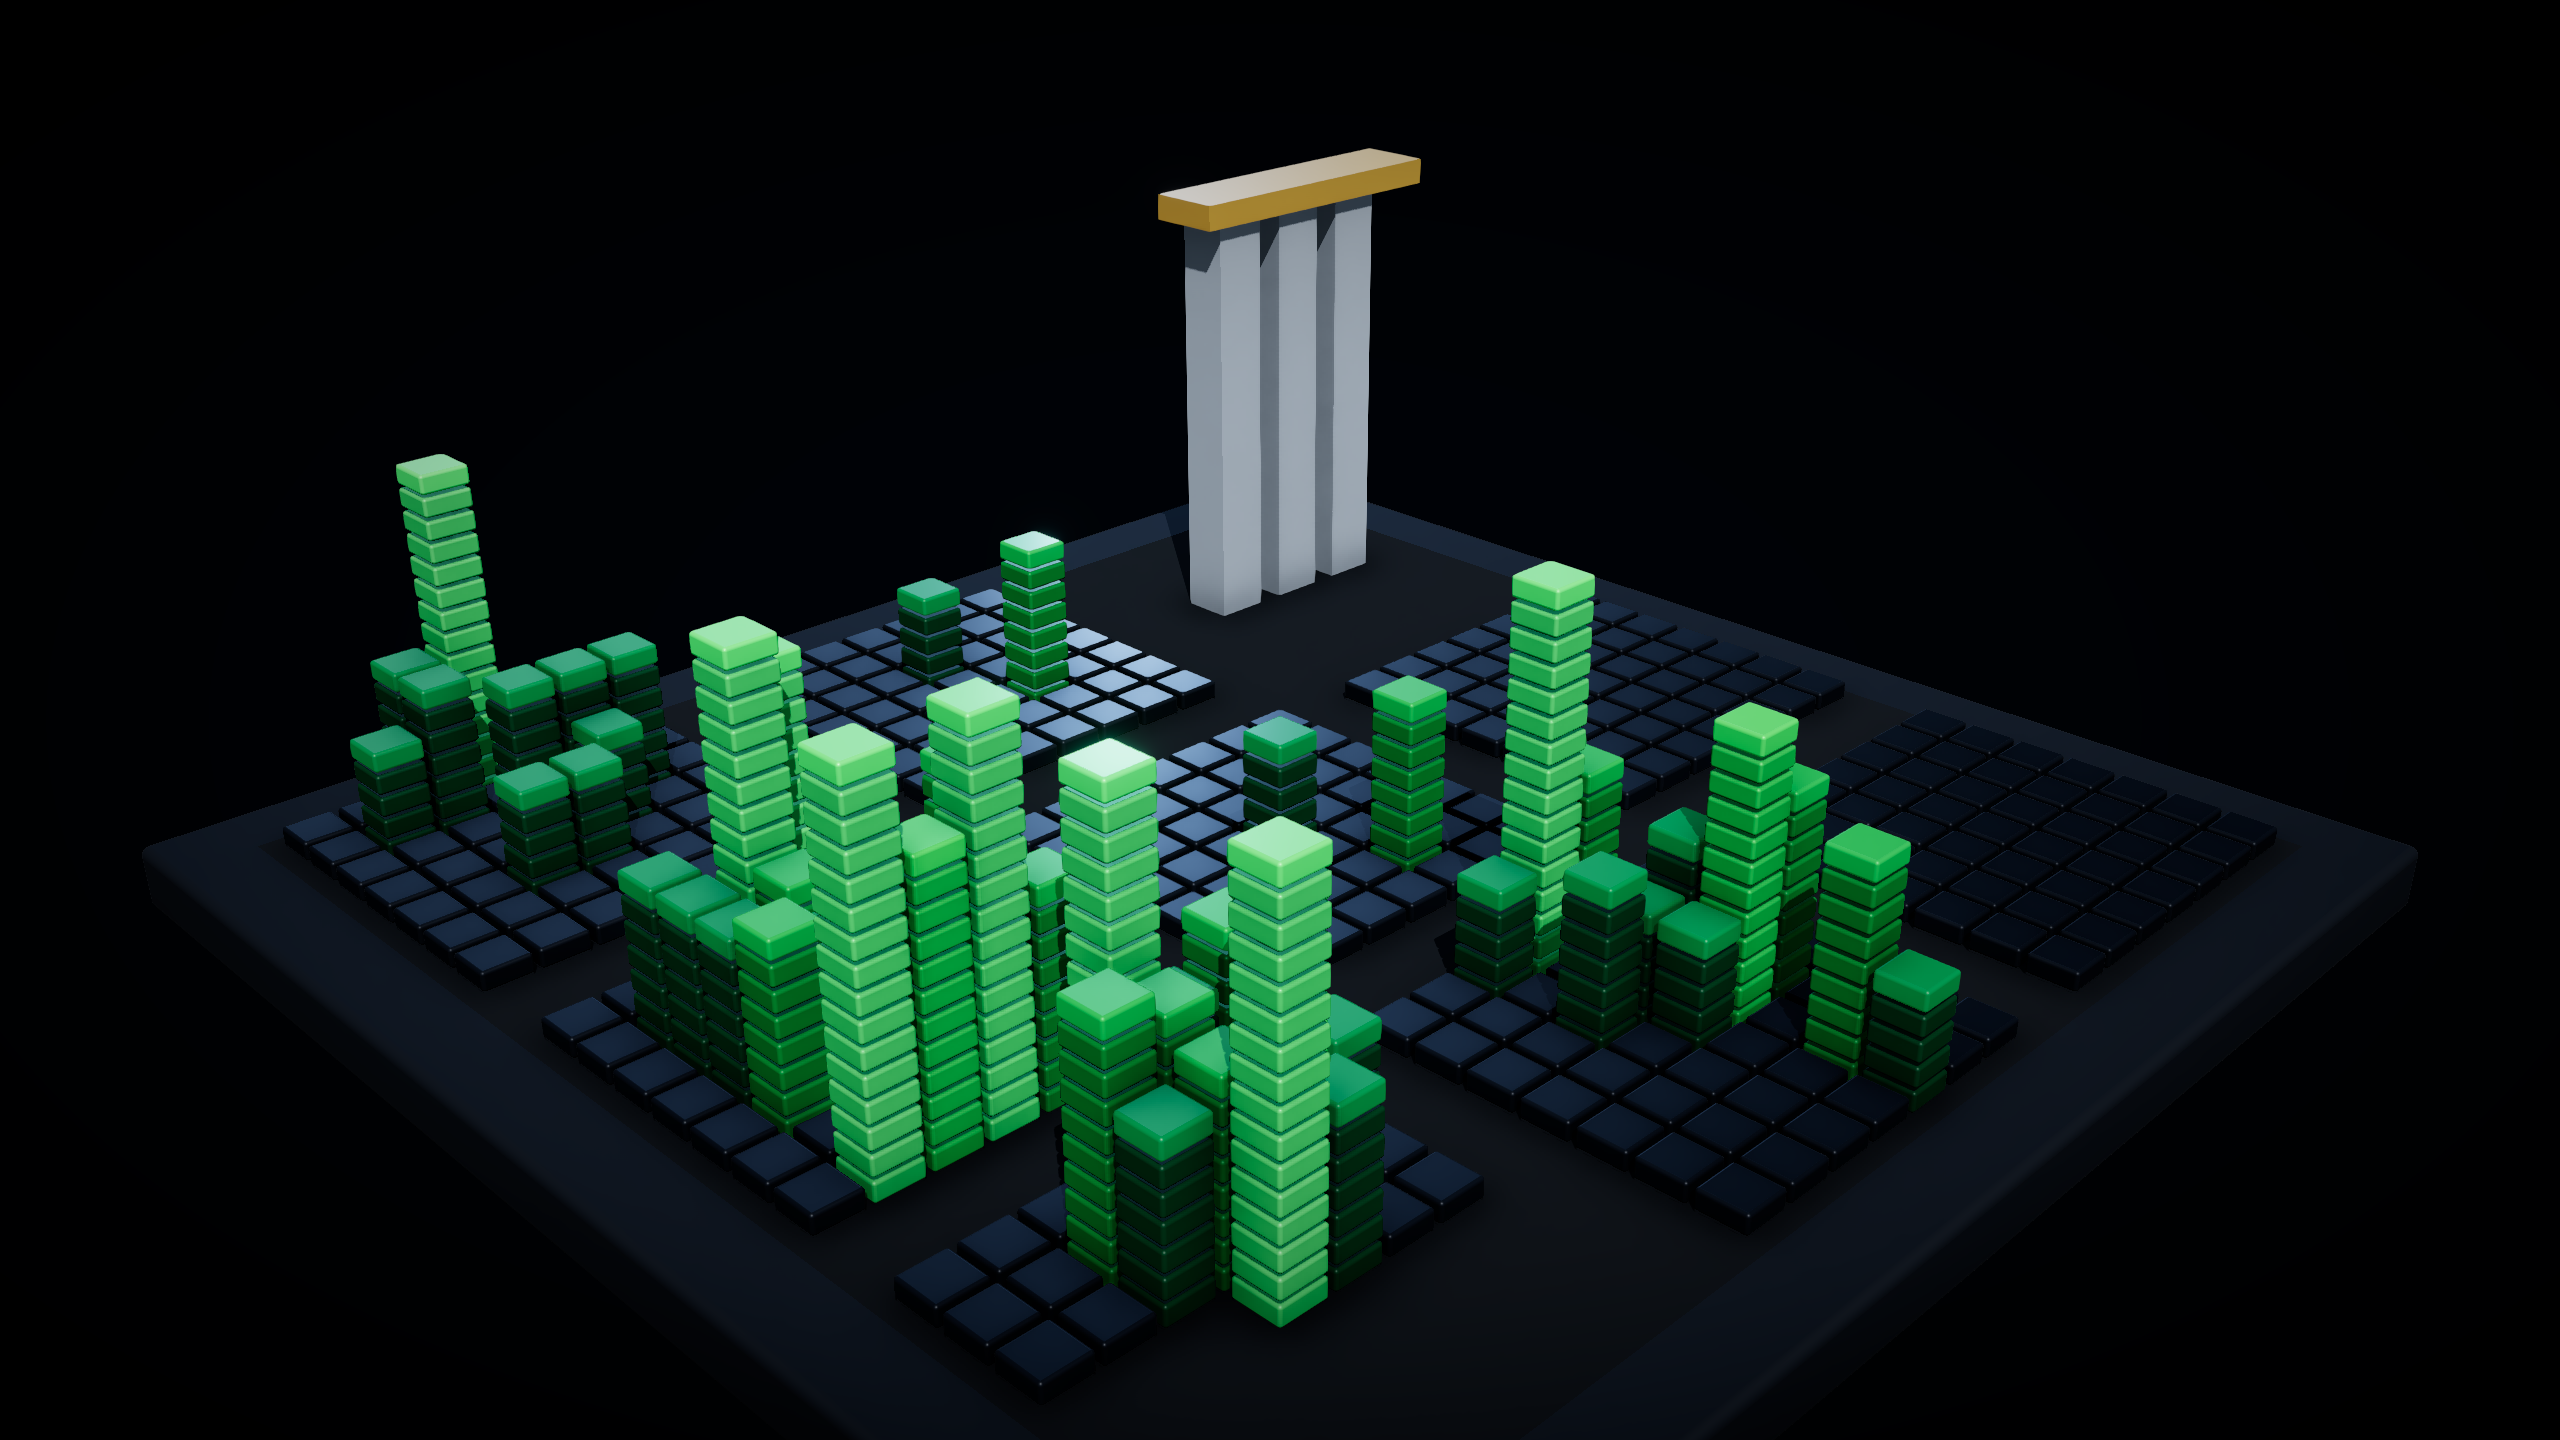
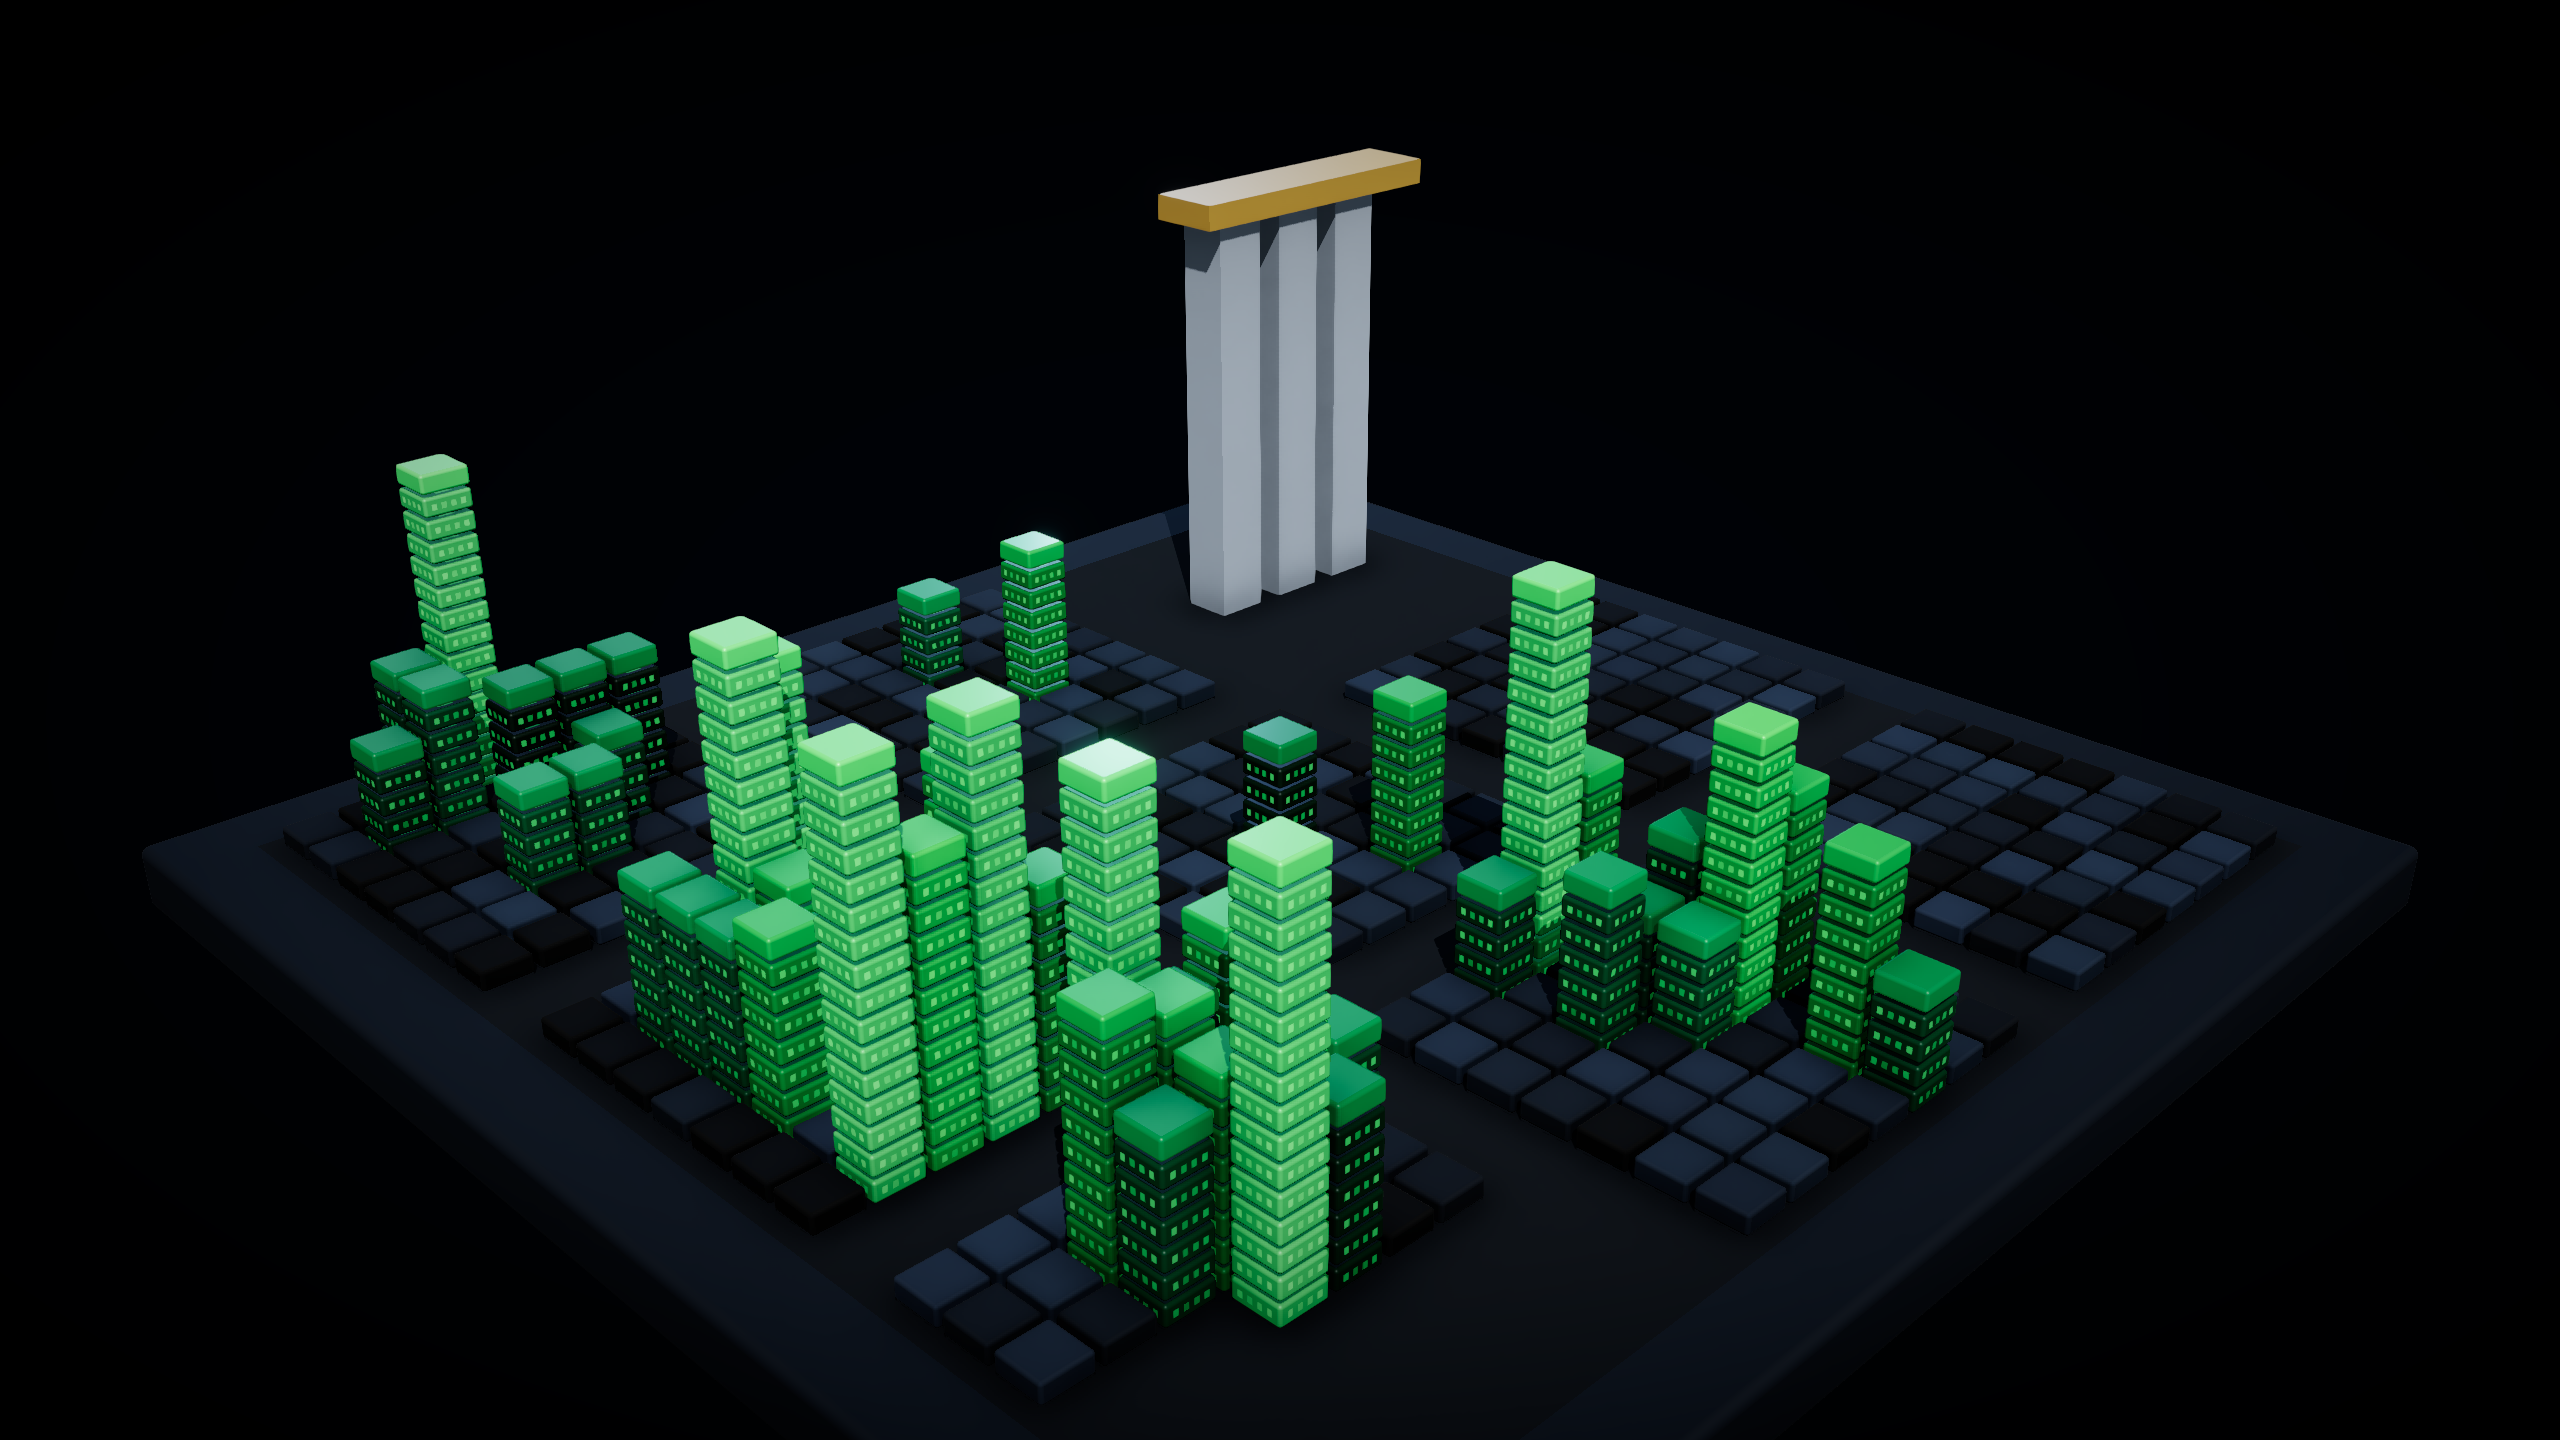
Add lit window facades and per-building colour jitter
Blank tower walls were the biggest remaining gap against the reference.

- windowTexture.ts generates a one-storey row of lit windows on a canvas, used
  as an emissiveMap so only the windows glow while the wall colour still comes
  from the per-instance colour. Stacked cubes tile it into a continuous facade.
- Split into three instance groups so the map lands only where it should:
  walls get windows, rooftops stay smooth, zero-day low-rise stays unlit. Body
  cubes always have a neighbour above and below, so their window map is only
  ever seen on the four walls.
- Deterministic hash-based colour jitter per cell so neighbouring towers aren't
  identical prisms. Hash rather than Math.random keeps the render
  byte-reproducible, which is what lets CI skip no-op screenshot commits.

diff --git a/src/scene/DataBuildings.tsx b/src/scene/DataBuildings.tsx
@@ -15,6 +15,7 @@ import {
   heightScaleRef,
   voxelCount,
 } from "../utils/grid"
+import { makeWindowTexture } from "./windowTexture"
 
 interface Voxel {
   key: string
@@ -28,61 +29,85 @@ const BODY_H = VOXEL_H * VOXEL_FILL
 const BEVEL = 0.055
 
 const bodyGeometry = new RoundedBoxGeometry(CELL_SIZE, BODY_H, CELL_SIZE, 2, BEVEL)
+const windowMap = makeWindowTexture()
 
-/** Rooftops catch the light, so the top cube of each stack is brightened.
- *  Lifts HSL lightness rather than lerping toward white, which would wash the
- *  greens out to sage-grey. */
-function brighten(hex: string, amount: number): string {
+function shiftLightness(hex: string, amount: number, satMul = 1): string {
   const c = new Color(hex)
   const hsl = { h: 0, s: 0, l: 0 }
   c.getHSL(hsl)
-  c.setHSL(hsl.h, Math.min(1, hsl.s * 1.15), Math.min(1, hsl.l + amount))
+  c.setHSL(hsl.h, Math.min(1, hsl.s * satMul), Math.max(0, Math.min(1, hsl.l + amount)))
   return `#${c.getHexString()}`
 }
 
+/** Deterministic per-cell jitter so neighbouring towers aren't identical
+ *  prisms. Hash-based rather than Math.random so the render stays
+ *  byte-reproducible across CI runs. */
+function jitter(week: number, row: number): number {
+  const h = Math.sin(week * 127.1 + row * 311.7) * 43758.5453
+  return (h - Math.floor(h) - 0.5) * 2 // -1..1
+}
+
 export function DataBuildings({ data, palette }: { data: ContributionData; palette: Palette }) {
-  const { bodies, caps } = useMemo(() => {
+  const { bodies, caps, lowrise } = useMemo(() => {
     const counts = data.weeks.flatMap((w) => w.days.map((d) => d.count))
     const scaleRef = heightScaleRef(counts)
 
     const bodies: Voxel[] = []
     const caps: Voxel[] = []
+    const lowrise: Voxel[] = []
 
     data.weeks.forEach((week, weekIndex) => {
       week.days.forEach((day, row) => {
         if (row >= BLOCK_ROWS) return
         const { x, z } = cellPosition(weekIndex, row)
         const base = palette.levels[bucket(day.count, scaleRef)]
+        const tint = shiftLightness(base, jitter(weekIndex, row) * 0.035)
         const stack = voxelCount(day.count, scaleRef)
+
+        if (day.count <= 0) {
+          // Unlit low-rise: no windows, no roof glow. Keeps quiet days quiet
+          // while still giving the city continuous built texture.
+          lowrise.push({ key: `${weekIndex}-${row}-l`, position: [x, VOXEL_H / 2, z], color: tint })
+          return
+        }
 
         for (let i = 0; i < stack; i++) {
           const v: Voxel = {
             key: `${weekIndex}-${row}-${i}`,
             position: [x, i * VOXEL_H + VOXEL_H / 2, z],
-            color: base,
+            color: tint,
           }
-          // Quiet days stay unlit low-rise; only real activity gets a lit roof.
-          if (i === stack - 1 && day.count > 0) caps.push({ ...v, color: brighten(base, 0.06) })
+          // Only the topmost cube shows a roof; every cube below it has its top
+          // and bottom faces hidden by neighbours, so the window map on those
+          // is only ever seen on the four walls.
+          if (i === stack - 1) caps.push({ ...v, color: shiftLightness(tint, 0.06, 1.15) })
           else bodies.push(v)
         }
       })
     })
-    return { bodies, caps }
+    return { bodies, caps, lowrise }
   }, [data, palette])
 
   const limit = 53 * BLOCK_ROWS * MAX_VOXELS
 
   return (
     <group>
-      {/* Tower bodies */}
+      {/* Tower walls, with lit windows via an emissive map. */}
       <Instances limit={limit} geometry={bodyGeometry} castShadow receiveShadow>
-        <meshStandardMaterial roughness={0.28} metalness={0.22} envMapIntensity={0.9} />
+        <meshStandardMaterial
+          roughness={0.3}
+          metalness={0.2}
+          envMapIntensity={0.9}
+          emissive={palette.glow}
+          emissiveMap={windowMap}
+          emissiveIntensity={0.85}
+        />
         {bodies.map((v) => (
           <Instance key={v.key} position={v.position} color={v.color} />
         ))}
       </Instances>
 
-      {/* Rooftops -- gently emissive so bloom picks them out as city lights. */}
+      {/* Rooftops -- smooth, gently emissive so bloom reads them as city lights. */}
       <Instances limit={limit} geometry={bodyGeometry} castShadow receiveShadow>
         <meshStandardMaterial
           roughness={0.22}
@@ -92,6 +117,14 @@ export function DataBuildings({ data, palette }: { data: ContributionData; palet
           emissiveIntensity={0.11}
         />
         {caps.map((v) => (
+          <Instance key={v.key} position={v.position} color={v.color} />
+        ))}
+      </Instances>
+
+      {/* Zero-contribution days: one dark unlit block. */}
+      <Instances limit={53 * BLOCK_ROWS} geometry={bodyGeometry} castShadow receiveShadow>
+        <meshStandardMaterial roughness={0.75} metalness={0.1} envMapIntensity={0.5} />
+        {lowrise.map((v) => (
           <Instance key={v.key} position={v.position} color={v.color} />
         ))}
       </Instances>

diff --git a/src/scene/windowTexture.ts b/src/scene/windowTexture.ts
@@ -1,0 +1,54 @@
+import { CanvasTexture, LinearFilter, RepeatWrapping } from "three"
+
+/** One stacked cube is one storey, so the texture holds a single row of lit
+ *  windows. Stacking cubes then tiles it vertically into a continuous facade.
+ *
+ *  Used as an emissiveMap: black emits nothing, bright pixels glow. That way
+ *  only the windows light up, and the wall colour still comes from the
+ *  per-instance colour. */
+export function makeWindowTexture(): CanvasTexture {
+  const W = 128
+  const H = 128
+  const canvas = document.createElement("canvas")
+  canvas.width = W
+  canvas.height = H
+  const ctx = canvas.getContext("2d")!
+
+  ctx.fillStyle = "#000000"
+  ctx.fillRect(0, 0, W, H)
+
+  const cols = 4
+  const marginX = W * 0.14
+  const usableW = W - marginX * 2
+  const winW = (usableW / cols) * 0.62
+  const gapX = (usableW - winW * cols) / (cols - 1)
+  const winH = H * 0.34
+  const y = (H - winH) / 2
+
+  // Deterministic pseudo-random so the texture is identical every build --
+  // the whole render needs to stay byte-reproducible for CI to skip no-op
+  // commits.
+  let seed = 1337
+  const rand = () => {
+    seed = (seed * 1664525 + 1013904223) % 4294967296
+    return seed / 4294967296
+  }
+
+  for (let i = 0; i < cols; i++) {
+    const x = marginX + i * (winW + gapX)
+    const r = rand()
+    // A few dark windows keep it from looking like a printed grid.
+    if (r < 0.22) continue
+    const lit = 0.55 + rand() * 0.45
+    const v = Math.round(255 * lit)
+    ctx.fillStyle = `rgb(${v},${v},${v})`
+    ctx.fillRect(x, y, winW, winH)
+  }
+
+  const tex = new CanvasTexture(canvas)
+  tex.wrapS = RepeatWrapping
+  tex.wrapT = RepeatWrapping
+  tex.magFilter = LinearFilter
+  tex.minFilter = LinearFilter
+  return tex
+}
